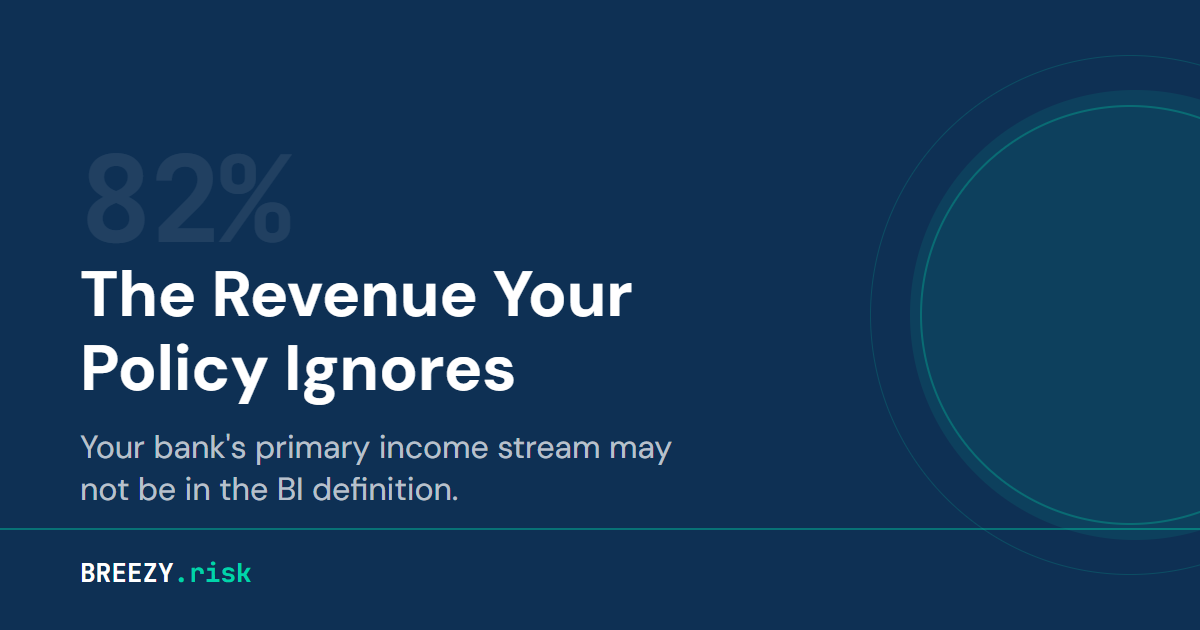
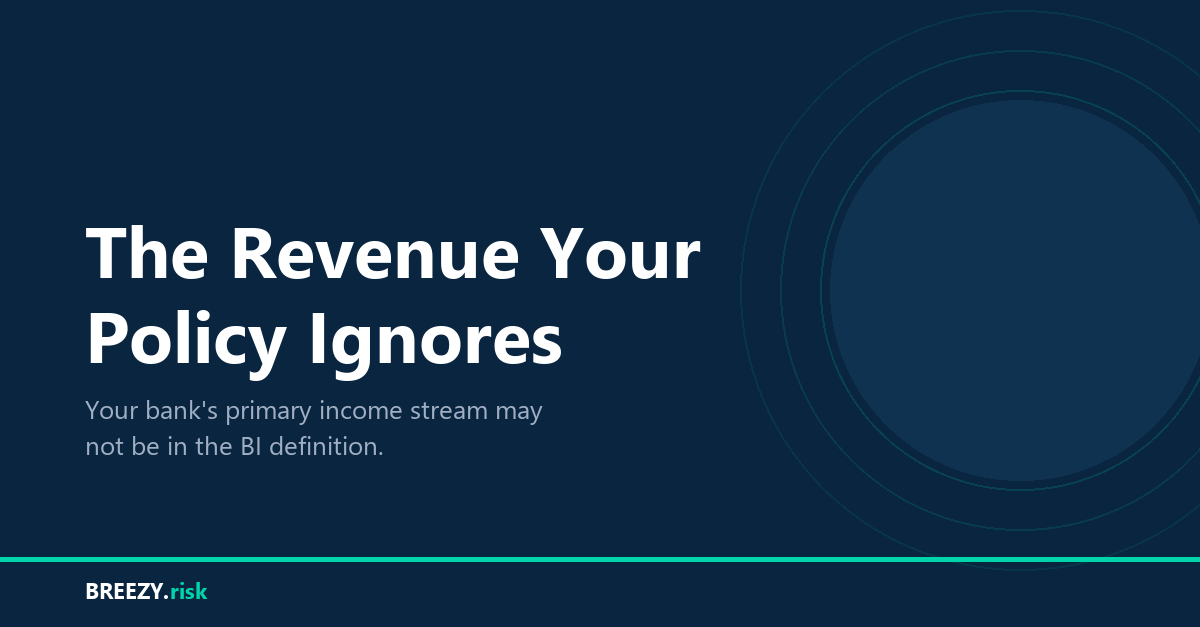
Sharpen the interest income analysis to where the exposure actually sits
Reframes the business interruption gap around what a bank loses in an
outage: fee income immediately, and interest income in a severe extended
event through deposit runoff and non-accrual reversals. Adds a dated
update note and a card image in the standard house style.

diff --git a/_posts/2026-07-10-the-revenue-your-policy-ignores.md b/_posts/2026-07-10-the-revenue-your-policy-ignores.md
@@ -2,121 +2,118 @@
 layout: post
 title: "The Revenue Your Policy Ignores: Cyber BI Doesn't Cover a Bank's Primary Income"
 card_title: "The Revenue Your Policy Ignores"
-description: "Community banks earn 70-85% of their revenue from net interest income. Most cyber policies exclude it from the business interruption definition. In a five-day outage, BI may cover less than 20% of the bank's revenue."
+description: "Most cyber BI definitions exclude interest income, which is the bulk of a community bank's revenue. The exclusion is real, but it does not bite where most people point. Here is where it actually costs you."
 date: 2026-07-10
 author: Joerg Proeve
 category: Policy Deep-Dive
-read_time: "5 min read"
+read_time: "6 min read"
 image: /assets/images/Blog-Revenue-Your-Policy-Ignores.png
 image_alt: "Community bank interest income excluded from cyber policy business interruption coverage"
 permalink: /insights/the-revenue-your-policy-ignores/
-last_modified_at: 2026-07-10
+last_modified_at: 2026-08-03
 ---
 
-A community bank suffers a five-day cyber outage. Systems down. No wire transfers, no ACH processing, no online banking, no loan originations. The bank files a business interruption claim under its cyber policy.
+A community bank loses its core platform for five days. No wires, no ACH, no online banking, no originations. It files a business interruption claim on the cyber policy and recovers $48,000, against a five-day revenue figure well north of $200,000.
 
-The BI payout: $48,000. The bank's total revenue over those five days: closer to $270,000. The policy recognized less than 20% of it.
+That comparison gets used to sell a lot of policy reviews. I used it myself in the first version of this article. It is the wrong comparison, and working out why it is wrong tells you more about your cyber policy than the original point did.
 
-The policy didn't fail because of a low limit, or a coverage exclusion buried on page 40. It failed because the definition of "income" in the BI section was written for commercial businesses, not for banks. Interest income, which makes up 70-85% of a community bank's revenue, is either excluded from the definition or left in a gray area the carrier controls at claim time.
+## The arithmetic that does not hold
 
-## Why Bank Revenue Is Different
+Start with what makes a bank different. Net interest income, the spread between what the loan book earns and what the deposit book costs, is the large majority of a community bank's revenue. Fee and service income is the rest. Pull your last call report if you want your own split; the non-interest income line gives it to you directly.
 
-A software company earns revenue from subscriptions and services. When it suffers a cyber outage, the Business Interruption definition in a standard cyber policy captures most of the lost income because it is tied to operations the company cannot perform while systems are down.
+From there the intuition is easy and wrong: if the systems that run the bank stop, the income the bank earns stops with them.
 
-A community bank's revenue works differently. 70-85% of it is net interest income from the existing loan portfolio. During a cyber outage, those loans continue to accrue interest contractually. A carrier can argue the bank hasn't been "prevented from earning" that income. Most cyber policies either explicitly exclude interest income from BI recovery or leave the language ambiguous enough to support that argument at claim time.
+It doesn't. A loan accrues interest under its note. A deposit accrues interest expense under its terms. Neither obligation is conditioned on whether the servicing platform is up. When the core comes back, the accruals are sitting there. The income was earned during the outage in the only sense that matters, which is contractually. Multiplying net interest income by outage days produces a large and frightening number that is not a loss.
 
 <div style="background: #0A2540; border-radius: 12px; padding: 32px; margin: 32px 0; color: #fff;">
-<h3 style="color: #00D4AA; margin-top: 0; font-size: 18px;">Revenue Breakdown: Typical Community Bank</h3>
-<div style="display: flex; flex-wrap: wrap; gap: 16px; margin-bottom: 20px;">
-<div style="flex: 1; min-width: 200px; background: rgba(252,165,165,0.12); border-left: 4px solid #FCA5A5; border-radius: 8px; padding: 20px;">
-<div style="color: #FCA5A5; font-weight: 700; font-size: 14px; text-transform: uppercase; letter-spacing: 0.05em; margin-bottom: 10px;">Net Interest Income</div>
-<div style="font-size: 36px; font-weight: 700; color: #FCA5A5;">70-85%</div>
-<div style="color: rgba(255,255,255,0.7); font-size: 15px; margin-top: 8px;">Excluded, or at least ambiguous in most cyber BI definitions</div>
+<h3 style="color: #00D4AA; margin-top: 0; font-size: 18px;">What a Five-Day Outage Does to Each Revenue Stream</h3>
+<div style="display: flex; flex-wrap: wrap; gap: 16px; margin-bottom: 4px;">
+<div style="flex: 1; min-width: 200px; background: rgba(255,255,255,0.06); border-left: 4px solid #94A3B8; border-radius: 8px; padding: 20px;">
+<div style="color: #94A3B8; font-weight: 700; font-size: 14px; text-transform: uppercase; letter-spacing: 0.05em; margin-bottom: 10px;">Net Interest Income</div>
+<div style="font-size: 26px; font-weight: 700; color: #94A3B8; line-height: 1.2;">Keeps accruing</div>
+<div style="color: rgba(255,255,255,0.7); font-size: 15px; margin-top: 8px;">Excluded or ambiguous in most BI definitions. In a short outage there is little here to claim, because little of it was lost.</div>
 </div>
 <div style="flex: 1; min-width: 200px; background: rgba(0,212,170,0.12); border-left: 4px solid #00D4AA; border-radius: 8px; padding: 20px;">
 <div style="color: #00D4AA; font-weight: 700; font-size: 14px; text-transform: uppercase; letter-spacing: 0.05em; margin-bottom: 10px;">Fee &amp; Service Income</div>
-<div style="font-size: 36px; font-weight: 700; color: #00D4AA;">15-30%</div>
-<div style="color: rgba(255,255,255,0.7); font-size: 15px; margin-top: 8px;">Typically covered under standard BI definitions</div>
+<div style="font-size: 26px; font-weight: 700; color: #00D4AA; line-height: 1.2;">Stops, and does not return</div>
+<div style="color: rgba(255,255,255,0.7); font-size: 15px; margin-top: 8px;">NSF and overdraft, interchange, wire fees, service charges, ATM. This is the real business interruption claim.</div>
 </div>
 </div>
 </div>
 
-## Two Ways the Policy Strips It Out
+## What actually stops
 
-**Hourly rates.** Some policies use a pre-set hourly rate for BI recovery. In the banks I reviewed, the rate covered only 20-25% of the bank's income. The math was set without interest income.
+Fee income. Overdraft and NSF charges, interchange, wire fees, service charges, ATM fees. Those are earned per transaction, and a transaction that does not happen does not come back. No customer overdrafts twice the following week to make up for the week your systems were down.
 
-**The ambiguous definition.** Other policies define income loss as "income from business operations" or "net profit before income taxes" without addressing interest income. For a commercial business, those phrases capture the main revenue stream. For a bank, they leave 70-85% of revenue in a gray area that the carrier controls at claim time.
+Two more categories sit next to it. Loan originations deferred during the outage, most of which get booked afterward, so the damage is timing rather than principal. And remediation and extra expense, which is real money and usually sits under a separate part of the cyber policy with its own sublimit.
 
-Most banks I reviewed had some form of this gap. Only one bank had solved it: through an endorsement that deletes the exclusion.
+Add that up and the honest reading of the opening scenario changes. The $48,000 recovery that looked like it covered less than a fifth of the loss may have covered most of what was actually lost.
 
-## The Scale of the Problem
+## So why does the exclusion matter
 
-This issue affects most institutions. The two largest insurance programs for community banks both have policy forms where this gap is structural. Whether through an hourly rate or an ambiguous definition, the outcome is the same: the bank's primary revenue stream is not clearly covered.
+Because the five-day outage is not the event that hurts you.
+
+Run the clock out to two or three weeks and two things happen that do not happen in five days. Depositors who cannot reach their money start moving it, and replacing runoff means paying up for funding on a loan book you cannot reprice at the same speed. That compresses the spread. Separately, borrowers under stress stop paying, loans migrate toward non-accrual, and previously booked interest gets reversed off the income statement.
+
+Both of those are interest income losses in the plain sense. They are also exactly what the exclusion bars.
+
+So the gap is real, and the market has it priced backwards. It is overstated for the short outage that every tabletop exercise models, and understated for the severe event that almost nobody models.
 
 <div style="background: #0A2540; border-radius: 12px; padding: 28px 32px; margin: 32px 0; color: #fff;">
-<h3 style="color: #00D4AA; margin-top: 0; margin-bottom: 12px; font-size: 18px;">Five-Day Outage: Revenue vs. BI Recovery</h3>
-<div style="overflow-x: auto;">
-<table style="width: 100%; border-collapse: collapse; font-size: 15px; color: #fff; margin: 0 !important;">
-<thead>
-<tr>
-<th style="text-align: left; padding: 12px 16px; color: #00D4AA !important; font-weight: 700; background: transparent !important; border-bottom: 1px solid #00D4AA !important;">Bank Size</th>
-<th style="text-align: right; padding: 12px 16px; color: #00D4AA !important; font-weight: 700; background: transparent !important; border-bottom: 1px solid #00D4AA !important;">5-Day Interest Income</th>
-<th style="text-align: right; padding: 12px 16px; color: #00D4AA !important; font-weight: 700; background: transparent !important; border-bottom: 1px solid #00D4AA !important;">Typical BI Recovery</th>
-<th style="text-align: right; padding: 12px 16px; color: #00D4AA !important; font-weight: 700; background: transparent !important; border-bottom: 1px solid #00D4AA !important;">Not Covered</th>
-</tr>
-</thead>
-<tbody>
-<tr style="background: transparent !important;">
-<td style="padding: 12px 16px; color: #fff !important; border-bottom: 1px solid rgba(0,212,170,0.3) !important;">$500M assets</td>
-<td style="text-align: right; padding: 12px 16px; color: #fff !important; border-bottom: 1px solid rgba(0,212,170,0.3) !important;">~$205,000</td>
-<td style="text-align: right; padding: 12px 16px; color: #fff !important; border-bottom: 1px solid rgba(0,212,170,0.3) !important;">$48,000</td>
-<td style="text-align: right; padding: 12px 16px; color: #FCA5A5 !important; border-bottom: 1px solid rgba(0,212,170,0.3) !important;">77%</td>
-</tr>
-<tr style="background: transparent !important;">
-<td style="padding: 12px 16px; color: #fff !important; border-bottom: 1px solid rgba(0,212,170,0.3) !important;">$1B assets</td>
-<td style="text-align: right; padding: 12px 16px; color: #fff !important; border-bottom: 1px solid rgba(0,212,170,0.3) !important;">~$410,000</td>
-<td style="text-align: right; padding: 12px 16px; color: #fff !important; border-bottom: 1px solid rgba(0,212,170,0.3) !important;">Ambiguous</td>
-<td style="text-align: right; padding: 12px 16px; color: #FCA5A5 !important; border-bottom: 1px solid rgba(0,212,170,0.3) !important;">Up to 100%</td>
-</tr>
-<tr style="background: transparent !important;">
-<td style="padding: 12px 16px; color: #fff !important; border-bottom: none !important;">$2B assets</td>
-<td style="text-align: right; padding: 12px 16px; color: #fff !important; border-bottom: none !important;">~$820,000</td>
-<td style="text-align: right; padding: 12px 16px; color: #fff !important; border-bottom: none !important;">Ambiguous</td>
-<td style="text-align: right; padding: 12px 16px; color: #FCA5A5 !important; border-bottom: none !important;">Up to 100%</td>
-</tr>
-</tbody>
-</table>
+<h3 style="color: #00D4AA; margin-top: 0; margin-bottom: 16px; font-size: 18px;">Where the Exclusion Bites</h3>
+<div style="display: flex; flex-wrap: wrap; gap: 16px;">
+<div style="flex: 1; min-width: 220px; padding: 4px 0;">
+<div style="color: #94A3B8; font-weight: 700; font-size: 13px; text-transform: uppercase; letter-spacing: 0.05em; margin-bottom: 10px;">Short outage, three to five days</div>
+<div style="color: rgba(255,255,255,0.85); font-size: 15px; line-height: 1.6;">Interest accrues through it. Fee income is the loss, and most BI definitions cover fee income. The exclusion costs you little.</div>
 </div>
-<p style="margin-top: 8px; font-size: 14px; color: rgba(255,255,255,0.5); line-height: 1.5;">Based on 3% net interest margin, five-day outage. Five days is a conservative assumption. Most ransomware incidents take longer to resolve. Interest income continues to accrue during an outage, but most BI definitions either exclude it or leave coverage ambiguous.</p>
+<div style="flex: 1; min-width: 220px; padding: 4px 0; border-left: 1px solid rgba(0,212,170,0.35); padding-left: 24px;">
+<div style="color: #00D4AA; font-weight: 700; font-size: 13px; text-transform: uppercase; letter-spacing: 0.05em; margin-bottom: 10px;">Severe event, two weeks and beyond</div>
+<div style="color: rgba(255,255,255,0.85); font-size: 15px; line-height: 1.6;">Deposit runoff raises funding cost. Non-accrual reversals claw back booked interest. Now interest income is a genuine loss, and now the exclusion bars it.</div>
+</div>
+</div>
 </div>
 
-I nearly missed this gap myself, and only added it to my framework after recognizing the pattern across multiple audits. The odds that a generalist broker is checking for this gap are low.
+## Three ways it shows up in the form
 
-## The Fix
+**Explicit exclusion.** The income definition carves out "interest or investment income" by name. This is the cleanest version, and the easiest to argue about before a claim rather than during one.
 
-Some carriers offer an endorsement that explicitly adds interest income to the BI definition. One bank in my initial sample had it, and it was the single most valuable endorsement in their program.
+**Ambiguous definition.** The form says "income from business operations" or "net profit before income taxes" and never addresses interest income. For a commercial business those phrases capture the main revenue stream and nobody thinks about it. For a bank they leave the largest line on the income statement to be characterized by a carrier at claim time.
+
+**Flat hourly rate.** Some programs pay BI at a set rate per hour. One I reviewed paid $500. A flat rate is not a measurement of anything; it is a substitute for measuring. It does not ask what you lost, which means it can overpay a short outage and badly underpay a long one, and the bank has no way to tell which side it is on until the claim is open.
+
+Most banks I reviewed had one of these three. One had solved it.
+
+## The fix
+
+Some carriers write an endorsement that deletes the interest and investment income exclusion from the income definition. Where I have seen it, it cost between nothing and $2,000 a year. One bank in my sample had it, and given what a severe event does to a bank's accrual book, it was the single most valuable endorsement in their program.
+
+If your carrier does not offer it, ask for written confirmation that "income from business operations" includes net interest income for a financial institution. Ask at renewal, in writing, and keep the answer. An ambiguity resolved in advance is worth more than an argument you win eighteen months into a claim.
 
 <div style="background: #f8faf9; border-radius: 10px; padding: 28px 32px; margin: 24px 0;">
 <div style="display: flex; gap: 16px; margin-bottom: 16px;">
 <div style="min-width: 32px; height: 32px; background: #00D4AA; border-radius: 50%; display: flex; align-items: center; justify-content: center; font-weight: 700; color: #0A2540; font-size: 16px;">1</div>
-<div><strong>Find the BI or Income Loss definition in your cyber policy.</strong> If "interest income" is not mentioned, or if the definition says "income from business operations" without specifying it, you have an ambiguity the carrier can use against you.</div>
+<div><strong>Find the BI or Income Loss definition in your cyber policy.</strong> Look for "interest income" by name. If it is absent, and the definition rests on "income from business operations," you have an ambiguity the carrier controls at claim time.</div>
 </div>
 <div style="display: flex; gap: 16px; margin-bottom: 16px;">
 <div style="min-width: 32px; height: 32px; background: #00D4AA; border-radius: 50%; display: flex; align-items: center; justify-content: center; font-weight: 700; color: #0A2540; font-size: 16px;">2</div>
-<div><strong>If your BI uses a flat hourly rate, run the math.</strong> Multiply the rate by 96 covered hours (five days minus a 24-hour waiting period). If recovery is less than half of your bank's income loss over the same period, the rate was set without your primary revenue stream.</div>
+<div><strong>If your BI pays a flat hourly rate, ask what the rate was based on.</strong> Note the rate and the waiting period. If nobody at the carrier or the brokerage can tell you how the number was derived for a bank, it was not derived for a bank.</div>
 </div>
 <div style="display: flex; gap: 16px; margin-bottom: 16px;">
 <div style="min-width: 32px; height: 32px; background: #00D4AA; border-radius: 50%; display: flex; align-items: center; justify-content: center; font-weight: 700; color: #0A2540; font-size: 16px;">3</div>
-<div><strong>Ask your broker about an Interest Income endorsement.</strong> Some carriers offer it. If yours does not, factor that into your next renewal decision.</div>
+<div><strong>Ask your broker about an interest income endorsement.</strong> Some carriers offer one. If yours does not, that belongs in the renewal decision alongside price.</div>
 </div>
 <div style="display: flex; gap: 16px;">
 <div style="min-width: 32px; height: 32px; background: #00D4AA; border-radius: 50%; display: flex; align-items: center; justify-content: center; font-weight: 700; color: #0A2540; font-size: 16px;">4</div>
-<div><strong>If no endorsement is available, quantify the gap for your board.</strong> Run the five-day outage scenario with your bank's net interest income. That dollar amount belongs in the risk register and in your next examiner conversation.</div>
+<div><strong>Size it from fee income, not from net interest income.</strong> Take the non-interest income line off your call report, reduce it to a daily figure, and apply your outage assumption. That is your realistic BI claim. Then model the severe case separately: what two or three weeks down does to deposit runoff and to your accrual book. The second number is the one that belongs in the risk register, and it is the one the exclusion is standing in front of.</div>
 </div>
 </div>
 
-Your bank's cyber policy was designed to cover system outages. For most businesses, that coverage works. For a bank, it only recognizes 15-30% of revenue and ignores the rest.
+Your cyber policy was written to cover system outages for businesses that stop earning when the systems stop. A bank does not work that way, and the BI definition was never adjusted for it. In a short outage that mismatch is mostly harmless. In the event that actually threatens the institution, it is the difference between a covered loss and an argument.
 
-The interest income exclusion is one of several gaps that appear when cyber, fidelity bond, and D&O policies are read together. I map the full picture in [Five Audits. Same Gaps.]({{ '/insights/five-audits-same-gaps/' | relative_url }}).
+The interest income exclusion is one of several gaps that only surface when cyber, fidelity bond, and D&O policies are read together. I map the full picture in [Five Audits. Same Gaps.]({{ '/insights/five-audits-same-gaps/' | relative_url }}).
 
 Find out whether your cyber BI definition counts net interest income as covered revenue. [Get in touch]({{ '/contact/' | relative_url }}).
+
+<div style="border-top: 1px solid #e5e7eb; margin-top: 40px; padding-top: 20px; font-size: 14px; color: #6b7280; line-height: 1.6;">
+<strong>Updated August 3, 2026.</strong> The original version of this article quantified the gap by multiplying net interest income by outage days, and presented a five-day recovery shortfall of 77 to 82 percent. That arithmetic does not hold, because interest accrues under the note whether or not the core platform is running. I have corrected the analysis and moved the exposure to where it belongs, which is the severe extended event rather than the short outage. The exclusion itself, the three policy patterns, and the endorsement fix are unchanged.
+</div>
